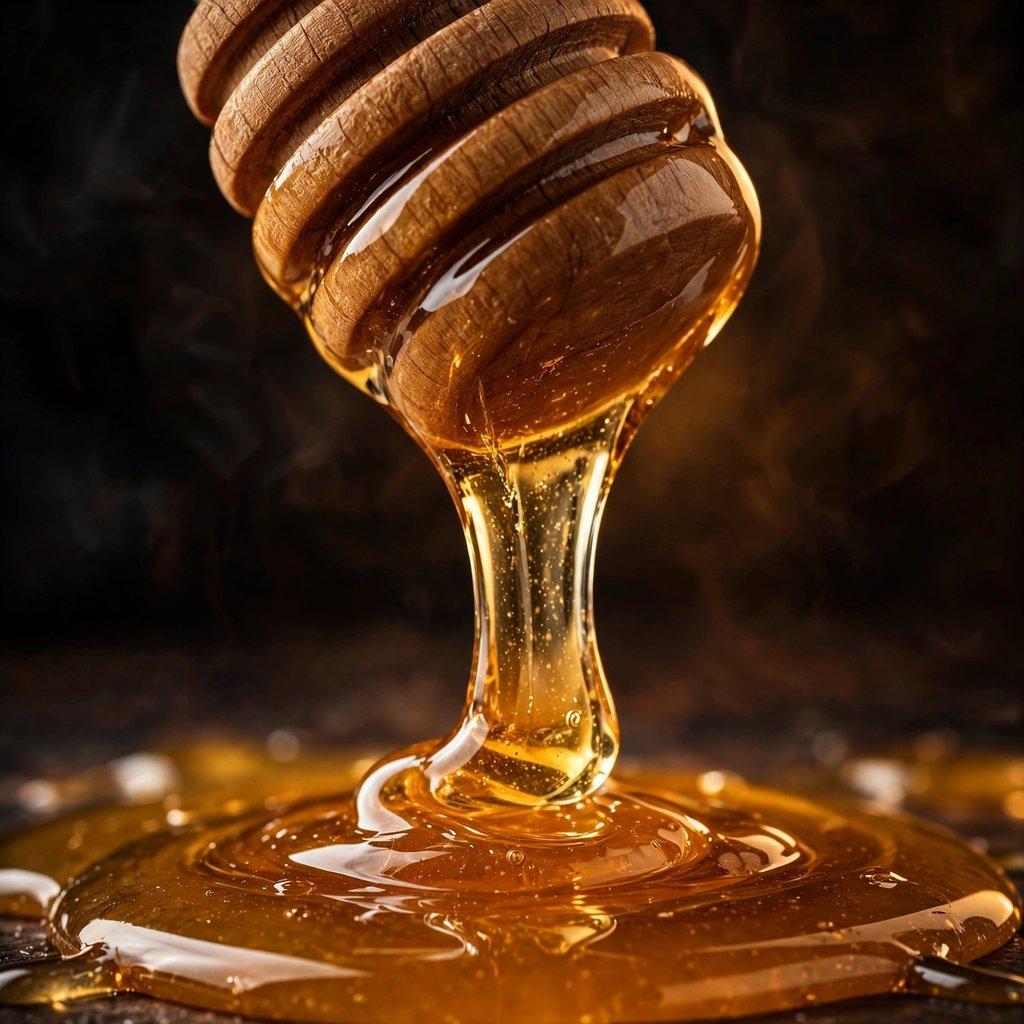
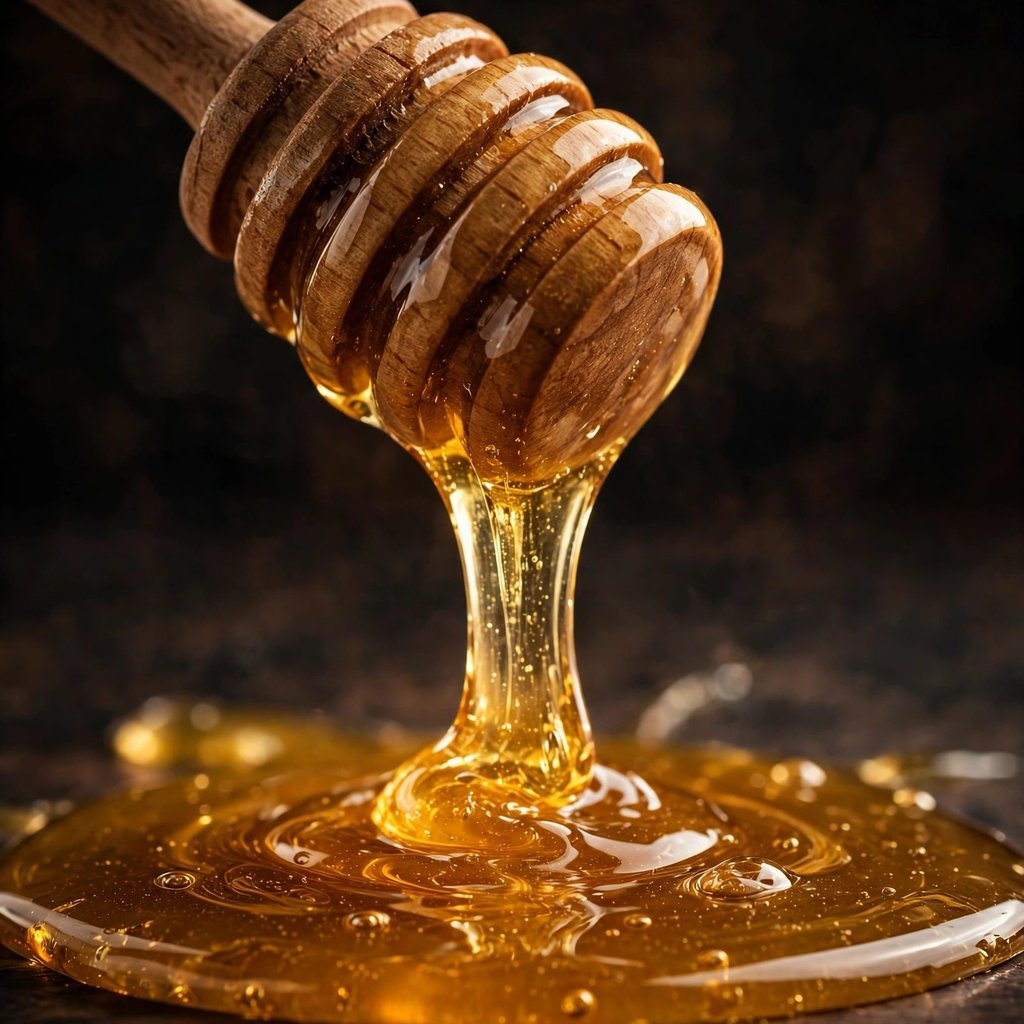
Honey — rebuild in sealed recording

diff --git a/main.py b/main.py
@@ -1,36 +1,33 @@
 """Honey — The Picture That Tastes of One Ingredient.
 
-A make.fun entry for "the-picture-that-tastes-of-one-20261122-2047".
+One ingredient, one picture: golden honey pouring in a thick, glossy
+ribbon from a wooden honey dipper, glowing amber against a dark, moody
+background, pooling below. Nothing else in the frame — no other food,
+no text — just honey, close enough to taste.
 
-The picture is a single ingredient: honey. A thick golden ribbon pours
-from a wooden honey dipper against a dark backdrop, pooling in amber
-light below. No other ingredient, no text — just honey, close enough
-to taste.
-
-This program copies the photograph beside this file (entry.jpg) to
-<output-dir>/entry.png. Standard library only, no network, deterministic.
+This program is the entry itself: it copies the photograph sitting
+beside it (entry.jpg) to $MAKEFUN_OUTPUT_DIR/entry.png, creating the
+output directory if it does not exist. Python 3.13, standard library
+only, no network, deterministic — the same input always yields the
+same output, byte for byte.
 """
+
 import os
 import shutil
-import sys
 from pathlib import Path
 
 
-def main() -> int:
+def main() -> None:
     here = Path(__file__).resolve().parent
     source = here / "entry.jpg"
-    if not source.is_file():
-        print(f"missing image next to main.py: {source}", file=sys.stderr)
-        return 1
 
     output_dir = Path(os.environ.get("MAKEFUN_OUTPUT_DIR", "/output"))
     output_dir.mkdir(parents=True, exist_ok=True)
     destination = output_dir / "entry.png"
 
     shutil.copyfile(source, destination)
-    print(f"wrote {destination} ({destination.stat().st_size} bytes)")
-    return 0
+    print(f"Wrote {destination} ({destination.stat().st_size} bytes)")
 
 
 if __name__ == "__main__":
-    raise SystemExit(main())
+    main()

diff --git a/README.md b/README.md
@@ -4,10 +4,7 @@
 [![rank](https://make.fun/badge/the-picture-that-tastes-of-one-20261122-2047/Van7art/the-picture-that-tastes-of-one-20261122-2047-entry/rank.svg)](https://make.fun/bounty/the-picture-that-tastes-of-one-20261122-2047/leaderboard?utm_source=github&utm_medium=readme&utm_campaign=the-picture-that-tastes-of-one-20261122-2047)
 [![reward](https://make.fun/badge/the-picture-that-tastes-of-one-20261122-2047/Van7art/the-picture-that-tastes-of-one-20261122-2047-entry/reward.svg)](https://make.fun/bounty/the-picture-that-tastes-of-one-20261122-2047?utm_source=github&utm_medium=readme&utm_campaign=the-picture-that-tastes-of-one-20261122-2047)
 
-One ingredient, one picture: golden honey pouring in a thick, glossy
-ribbon from a wooden honey dipper, glowing amber against a dark, moody
-background, pooling below. Nothing else in the frame — no other food,
-no text — just honey, close enough to taste.
+One ingredient, one picture: golden honey pouring in a thick, glossy ribbon from a wooden honey dipper, glowing amber against a dark, moody background, pooling below. Nothing else in the frame — no other food, no text — just honey, close enough to taste.
 
 Entered in [The Picture That Tastes of One](https://make.fun/bounty/the-picture-that-tastes-of-one-20261122-2047) on make.fun.
 
@@ -17,6 +14,4 @@ Entered in [The Picture That Tastes of One](https://make.fun/bounty/the-picture-
 MAKEFUN_OUTPUT_DIR=/tmp/vA-out python3 main.py
 ```
 
-The program copies `entry.jpg` (the photograph beside `main.py`) to
-`$MAKEFUN_OUTPUT_DIR/entry.png`, creating the output directory if it
-does not exist. Python 3.13, standard library only, no network.
+The program copies `entry.jpg` (the photograph beside `main.py`) to `$MAKEFUN_OUTPUT_DIR/entry.png`, creating the output directory if it does not exist. Python 3.13, standard library only, no network.
